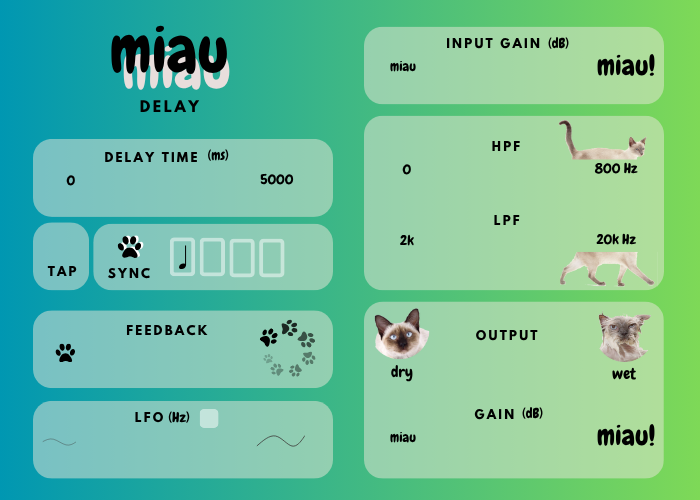
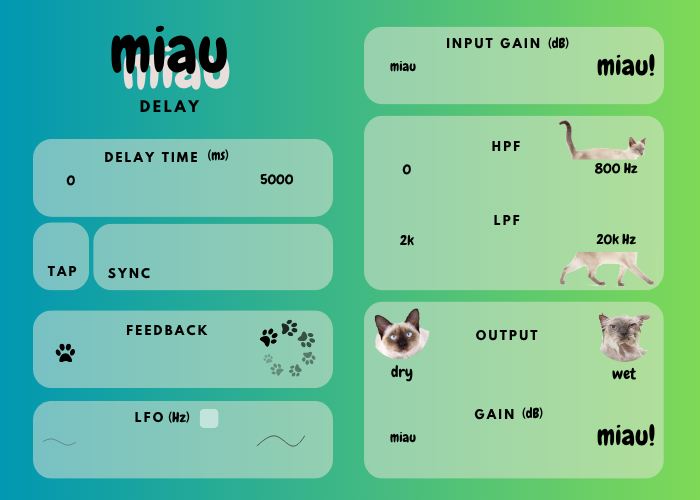
🚧 tresillos

Changed region(s): [[0.24, 0.45, 0.42, 0.57], [0.15, 0.45, 0.21, 0.54]]

diff --git a/Source/PluginProcessor.cpp b/Source/PluginProcessor.cpp
@@ -41,9 +41,10 @@ juce::AudioProcessorValueTreeState::ParameterLayout MiauDelay::createParameters(
     parameters.add(std::make_unique<juce::AudioParameterFloat>(juce::ParameterID{ "OutputGain", 1 }, "OutputGain", 0.0f, 2.0f, 1.0f));
     parameters.add(std::make_unique<juce::AudioParameterInt>(juce::ParameterID{ "HPFFreq", 1 }, "HPFFreq", 0, 500, 0));
     parameters.add(std::make_unique<juce::AudioParameterInt>(juce::ParameterID{ "LPFFreq", 1 }, "LPFFreq", 2000, 20000, 20000));
-    parameters.add(std::make_unique<juce::AudioParameterBool>(juce::ParameterID{ "SyncMode", 1 }, "SyncMode", false));
-    parameters.add(std::make_unique<juce::AudioParameterChoice>(juce::ParameterID{ "SyncTime", 1 }, "SyncTime", juce::StringArray{ "1", "1/2", "1/4", "1/8"}, 0));
-    parameters.add(std::make_unique<juce::AudioParameterFloat>(juce::ParameterID{ "LFO", 1 }, "LFO", 0.01f, 20.0f, 10.0f));
+    parameters.add(std::make_unique<juce::AudioParameterBool>(juce::ParameterID{ "SyncActive", 1 }, "SyncActive", false));
+    parameters.add(std::make_unique<juce::AudioParameterChoice>(juce::ParameterID{ "SyncTime", 1 }, "SyncTime", juce::StringArray{ "1", "1/2", "1/4", "1/8" }, 0));
+    parameters.add(std::make_unique<juce::AudioParameterBool>(juce::ParameterID{ "SyncTripletsActive", 1 }, "SyncTripletsActive", false));
+    parameters.add(std::make_unique<juce::AudioParameterFloat>(juce::ParameterID{ "LFO", 1 }, "LFO", 0.01f, 500.0f, 200.0f));
     parameters.add(std::make_unique<juce::AudioParameterChoice>(juce::ParameterID{ "LFOChoice", 1 }, "LFOChoice", waves, 0));
     parameters.add(std::make_unique<juce::AudioParameterBool>(juce::ParameterID{ "ActiveLFO", 1 }, "ActiveLFO", false));
 
@@ -171,22 +172,29 @@ void MiauDelay::updateParameters()
     float inLPFFreqValue = *apvts.getRawParameterValue("LPFFreq");
     float inLFOFreqValue = *apvts.getRawParameterValue("LFO");
     bool inLFOActive = *apvts.getRawParameterValue("ActiveLFO");
-    bool inSyncMode = *apvts.getRawParameterValue("SyncMode");
+    bool inSyncActive = *apvts.getRawParameterValue("SyncActive");
     int inSyncTimeValue = *apvts.getRawParameterValue("SyncTime");
+    int inSyncTripletsActive = *apvts.getRawParameterValue("SyncTripletsActive");
+   
+    const float pi = juce::MathConstants<float>::pi;
 
-    if (inSyncMode)
+    if (inSyncActive)
     {
         if (getPlayHead() != nullptr)  
         {
             auto bpmValue = getPlayHead()->getPosition()->getBpm();
-
+          
             if (bpmValue.hasValue())
             {
                 // Convert sync time value to milliseconds
-              //  syncTimeHandler.setSyncMode(inSyncTimeValue);
-                inDelayTimeValue = syncTimeHandler.getSyncTimeInterval(inSyncMode, bpmValue);
+                inDelayTimeValue = syncTimeHandler.getSyncTimeInterval(inSyncTimeValue, bpmValue);
+                DBG(inDelayTimeValue);
             }
         }
+    } 
+    else
+    {
+
     }
 	
    delay.setDelayTimeValue(inDelayTimeValue);
@@ -194,6 +202,8 @@ void MiauDelay::updateParameters()
    dryWet.setDryWetValue(inDryWetValue);
    inputGain.setGainValue(inInputGainValue);
    outputGain.setGainValue(inOutputGainValue);
+   syncTimeHandler.setSyncActive(inSyncActive);
+   syncTimeHandler.setTripletsActive(inSyncTripletsActive);
    hpf.setHPFFreqValue(inHPFFreqValue);
    lpf.setLPFFreqValue(inLPFFreqValue);
    lfo.setFrequencyValue(inLFOFreqValue);
@@ -214,18 +224,19 @@ void MiauDelay::processBlock (juce::AudioBuffer<float>& buffer, juce::MidiBuffer
     for (auto i = totalNumInputChannels; i < totalNumOutputChannels; ++i)
         buffer.clear(i, 0, buffer.getNumSamples());
 
-    delay.process(buffer, totalNumInputChannels);
     inputGain.process(buffer);
-  
-    // TODO: unificar en una sola funci�n?
-    hpf.processHPF(buffer);
-    lpf.processLPF(buffer);
+
+    delay.process(buffer, totalNumInputChannels);
 
     if (lfoActive)
     {
         lfo.process(buffer);
     }
-
+  
+    // TODO: unificar en una sola funci�n?
+    hpf.processHPF(buffer);
+    lpf.processLPF(buffer);
+   
     dryWet.process(dryBuffer, buffer);
     outputGain.process(buffer);
 }

diff --git a/Source/DSP/SyncTimeHandler.h b/Source/DSP/SyncTimeHandler.h
@@ -8,10 +8,20 @@ public:
     SyncTimeHandler() {}
     ~SyncTimeHandler() {}
 
-    void setSyncMode(int inSyncMode)
+    void setSyncActive(bool inSyncActive)
     {
-        syncMode = inSyncMode;
+        syncActive = inSyncActive;
     }
+
+    void setTripletsActive(bool inTriplets)
+    {
+        triplets = inTriplets;
+    }
+
+    int SyncTimeHandler::getSyncActive() 
+    { 
+        return syncActive; 
+    };
 
     float getSyncTimeInterval(int choice, juce::Optional<double>& bpmValue)
     {
@@ -61,23 +71,25 @@ public:
             syncTimeInterval = static_cast<float> (beatInMilliseconds) / 4.0f;
 
         /** Triplets */
-        if (syncMode == 1)
+        if (triplets)
+        { 
             syncTimeInterval *= (2.0f / 3.0f);
-
+        }
         /** Dotted */
-        else if (syncMode == 2)
-            syncTimeInterval *= (1.5f);
+        
+       // else if (syncMode == 2)
+         //  syncTimeInterval *= (1.5f);
 
         return syncTimeInterval;
     }
 
 private:
+    double currentBpm { 120.0 };
+    double beatInMilliseconds { 500.0 };
+	float timeInterval { 0.0f }; // Default to 1 (1 beat)
 
-    double currentBpm{ 120.0 };
-    double beatInMilliseconds{ 500.0 };
-	float timeInterval{ 0.0f }; // Default to 1 (1 beat)
-
-    int syncMode{ 0 };
+    bool triplets { false };
+    bool syncActive { false };
 
     JUCE_DECLARE_NON_COPYABLE_WITH_LEAK_DETECTOR(SyncTimeHandler)
 };
